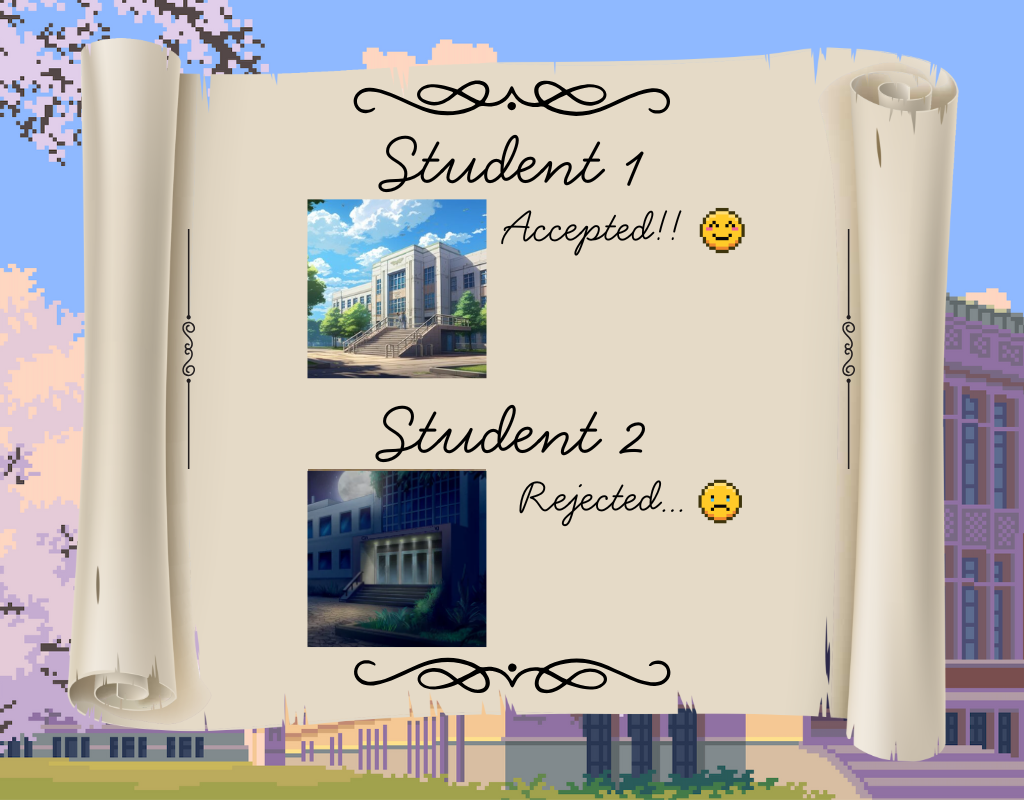
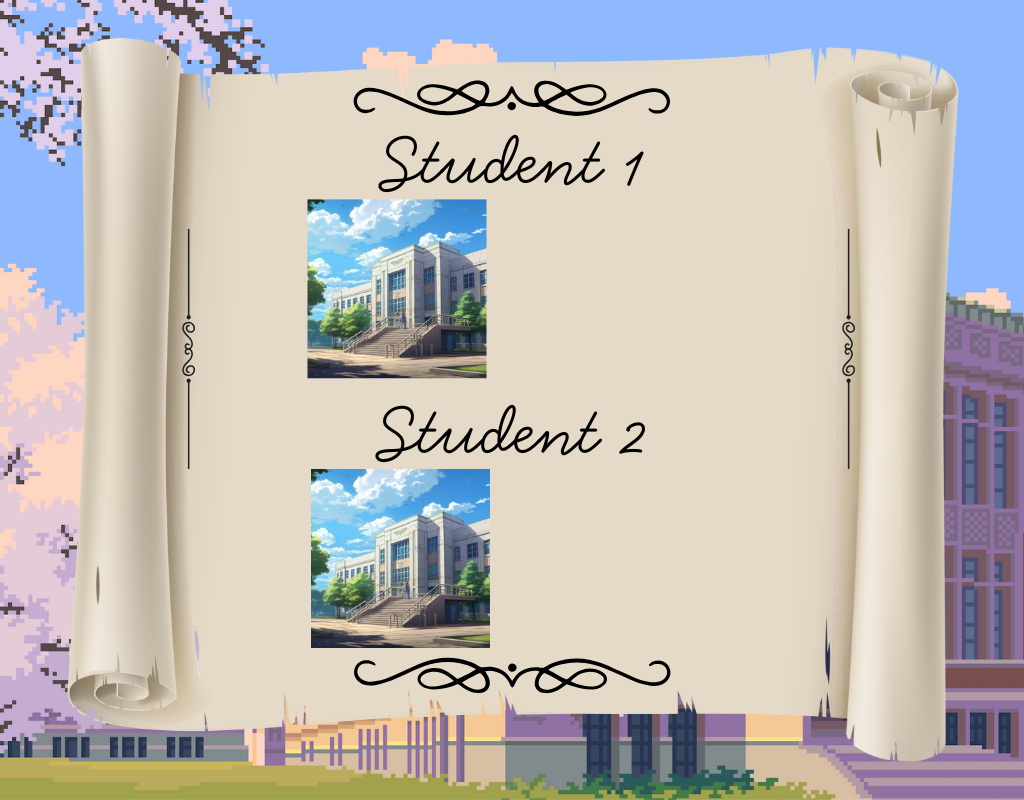
Endings World

Changed region(s): [[0.2812, 0.5625, 0.7188, 0.8125], [0.5, 0.25, 0.75, 0.3125]]

diff --git a/EndingWorld.java b/EndingWorld.java
@@ -13,10 +13,53 @@ public class EndingWorld extends World
      * Constructor for objects of class EndingWorld.
      * 
      */
+    private GreenfootImage background;
+    private GreenfootImage rejectionImage;
+    private boolean student1Win, student2Win; 
+    private DecisionImage acceptedImage;
+    private DecisionImage rejectedImage; 
+
+    private CharacterImage student1, student2;
+
     public EndingWorld()
     {    
         // Create a new world with 600x400 cells with a cell size of 1x1 pixels.
         super(1024, 800, 1); 
+        background = new GreenfootImage("EndingWorld.png");
+        setBackground(background); 
+
+        student1Win = true; 
+        student2Win = false; 
+
+        student1 = new CharacterImage(true); 
+        addObject(student1, 620, 320); 
+        student2 = new CharacterImage(false); 
+        addObject(student2, 620, 590); 
+        
+        if(student1Win == true)
+        {
+            acceptedImage = new DecisionImage(true); 
+            addObject(acceptedImage, 526, 288); 
+        }
+        else
+        {
+            rejectedImage = new DecisionImage(false);
+            addObject(rejectedImage, 526, 286); 
+        }
+
+        if(student2Win == true)
+        {
+            acceptedImage = new DecisionImage(true); 
+            addObject(acceptedImage, 532, 557);
+        }
+        else
+        {
+            rejectedImage = new DecisionImage(false);
+            addObject(rejectedImage, 532, 557);
+        }
     }
-    
+
+    public void act()
+    {
+    }
 }

diff --git a/CharacterImage.java b/CharacterImage.java
@@ -1,0 +1,38 @@
+import greenfoot.*;  // (World, Actor, GreenfootImage, Greenfoot and MouseInfo)
+
+/**
+ * Write a description of class CharacterImage here.
+ * 
+ * @author (your name) 
+ * @version (a version number or a date)
+ */
+public class CharacterImage extends Actor
+{
+    /**
+     * Act - do whatever the CharacterImage wants to do. This method is called whenever
+     * the 'Act' or 'Run' button gets pressed in the environment.
+     */
+    private GreenfootImage studentImage;
+
+    public void act()
+    {  
+
+    }
+
+    public CharacterImage(boolean isStudent1)
+    {
+
+        if(isStudent1 == true)
+        {
+            studentImage = new GreenfootImage(SettingsWorldGeneral.getStudent1Image()); 
+            studentImage.scale(100, 140); 
+            setImage(studentImage);
+        }
+        else
+        {
+            studentImage = new GreenfootImage(SettingsWorldGeneral.getStudent2Image()); 
+            studentImage.scale(100, 140); 
+            setImage(studentImage); 
+        }
+    }
+}

diff --git a/SettingsWorld.java b/SettingsWorld.java
@@ -119,22 +119,22 @@ public abstract class SettingsWorld extends World
             }
             if(number%4==0)
             {
-                object.setImageFile(image1, true);
+                object.setImageFile(image1, isUniversity);
                 choosenImage = image1;
             }
             else if (number%4==1 || number%4==-1)
             {
-                object.setImageFile(image2, true); 
+                object.setImageFile(image2, isUniversity); 
                 choosenImage = image2;
             }
             else if (number%4 == 2 || number%4==-2)
             {
-                object.setImageFile(image3, true); 
+                object.setImageFile(image3, isUniversity); 
                 choosenImage = image3;
             }
             else if(number%4 == 3 || number%4==-3)
             {
-                object.setImageFile(image4, true); 
+                object.setImageFile(image4, isUniversity); 
                 choosenImage = image4;
             }
         }

diff --git a/DecisionImage.java b/DecisionImage.java
@@ -1,0 +1,34 @@
+import greenfoot.*;  // (World, Actor, GreenfootImage, Greenfoot and MouseInfo)
+
+/**
+ * Write a description of class acceptanceImage here.
+ * 
+ * @author (your name) 
+ * @version (a version number or a date)
+ */
+public class DecisionImage extends Actor
+{
+    /**
+     * Act - do whatever the acceptanceImage wants to do. This method is called whenever
+     * the 'Act' or 'Run' button gets pressed in the environment.
+     */
+    private GreenfootImage decisionImage; 
+    private GreenfootImage decisionTextImage;
+    public void act()
+    {
+    }
+
+    public DecisionImage(boolean isAccepted)
+    {
+        if(isAccepted == true)
+        {
+            decisionImage = new GreenfootImage("AcceptedImage.png");
+            setImage(decisionImage);
+        }
+        else
+        {
+            decisionImage = new GreenfootImage("RejectedImage.png");
+            setImage(decisionImage); 
+        }
+    }
+}

diff --git a/SettingsWorldS1Stats.java b/SettingsWorldS1Stats.java
@@ -18,6 +18,7 @@ public class SettingsWorldS1Stats extends SettingsWorld
 
     private static SettingsWorldS1Stats.StatChooseImage relative1, relative2, relative3; 
     private int relative1Number, relative2Number, relative3Number; 
+    private GreenfootImage background;
 
     public SettingsWorldS1Stats()
     {
@@ -46,6 +47,8 @@ public class SettingsWorldS1Stats extends SettingsWorld
 
         relative3Number = 0;
         relative3 = new SettingsWorldS2Stats.StatChooseImage(775, 580, 950, 540, relative2Number); 
+        background = new GreenfootImage("SettingsPg2.png"); 
+        setBackground(background); 
     }
 
     public void act()

diff --git a/SettingsWorldGeneral.java b/SettingsWorldGeneral.java
@@ -35,8 +35,8 @@ public class SettingsWorldGeneral extends SettingsWorld
 
     public void act()
     {
-        student1.choose("bob_run1.png", "Amelia_run1.png", "Alex_run1.png"); 
-        student2.choose("bob_run1.png", "Amelia_run1.png", "Alex_run1.png"); 
+        student1.choose("bob_run1.png", "Amelia_run1.png", "Alex_run1.png", "Adam_run1.png", false); 
+        student2.choose("bob_run1.png", "Amelia_run1.png", "Alex_run1.png", "Adam_run1.png", false); 
         university.choose("universityofcatmeme.png", "universityofbigmac.png", "universityofducksong.png", "universityoflebron.png", true); 
         backWorld();
         nextWorld();

diff --git a/SettingsImages.java b/SettingsImages.java
@@ -45,7 +45,12 @@ public class SettingsImages extends Actor
     public void setImageFile(String imageFile, boolean isUniversity)
     {
         image = new GreenfootImage(imageFile); 
+        if(isUniversity == false)
+        {
+            image.scale(50, 65); 
+        }
         setImage(image); 
+
     }
 
     public void numberDisplay(int gpa)
